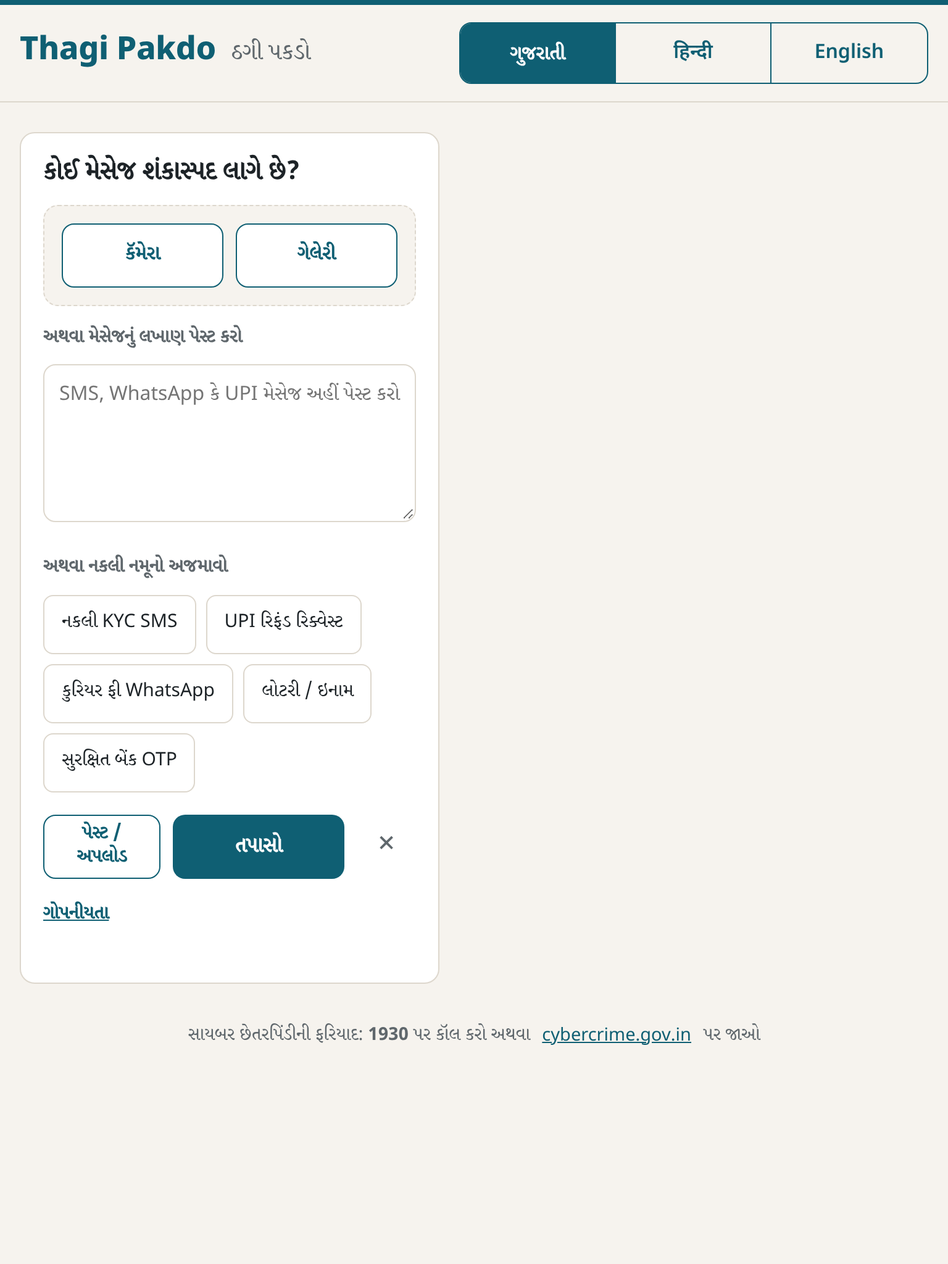
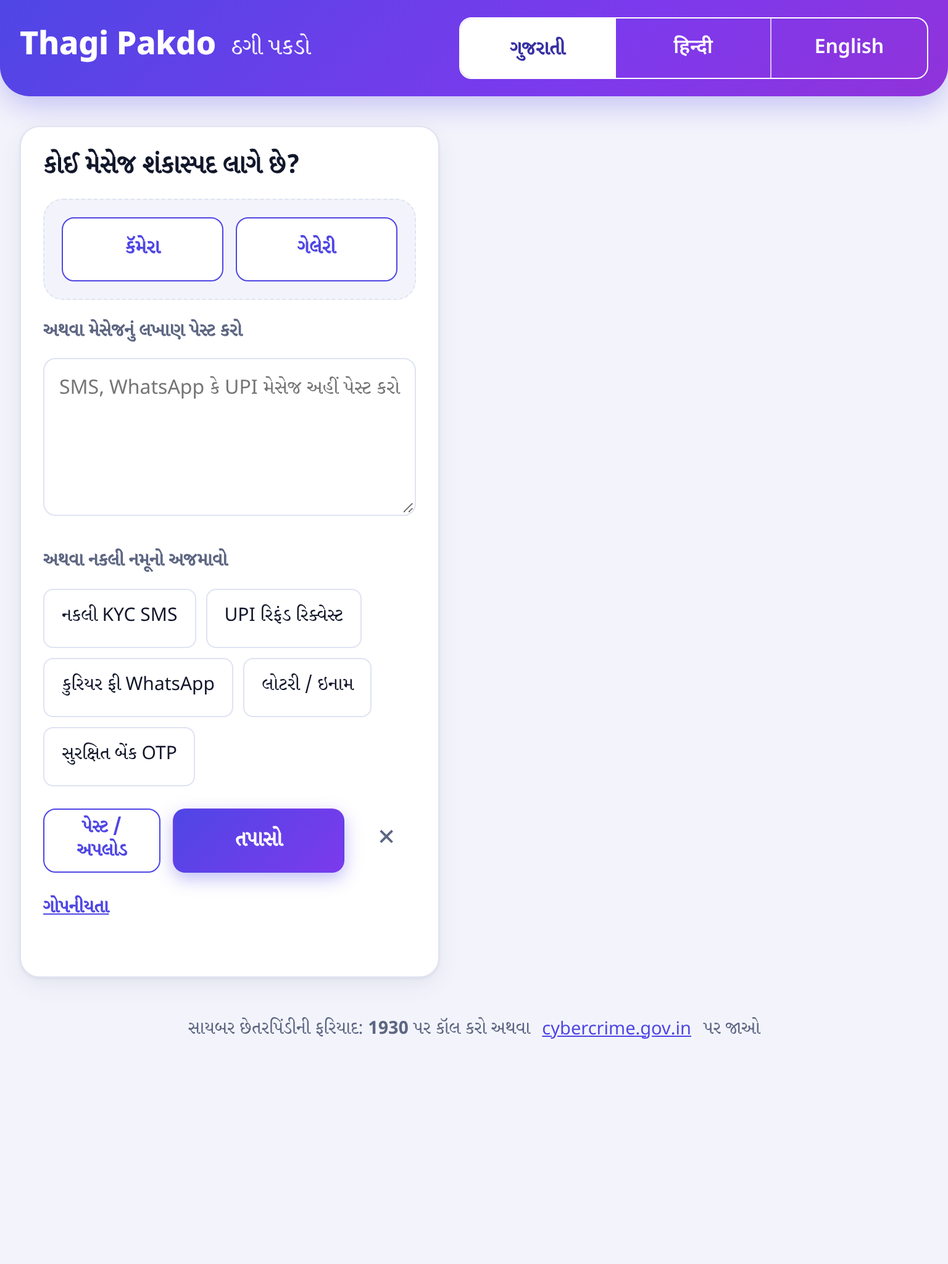
Final UI (F7c/F7d palette), regenerated screenshots, README: live demo first, optional self-run section

diff --git a/web/app.js b/web/app.js
@@ -14,27 +14,27 @@ let imageFile = null;
 let last = null;
 
 const T = {
-  en: {eNotImg:'That file is not a picture. Please choose a photo or screenshot.',eBusy:'We are busy right now. Please try again in a minute.',eOffline:'No internet connection. Please check your network and try again.',hintD:'Drop a screenshot here, paste it with Ctrl+V, or use the buttons above.',privTitle:'Privacy',hGreen:'This looks safe, but stay alert.',hAmber:'This looks suspicious. Be careful before you pay or click.',hRed:'This looks like a scam. Do not pay or click.',tag:'Got a message that feels wrong?',drop:'<strong>Drop a screenshot here</strong>, click to choose, or paste (Ctrl+V)',
+  en: {hAi:'Couldn\'t fully check this right now. Be careful and try again in a minute.',tryAgain:'Try again',eNotImg:'That file is not a picture. Please choose a photo or screenshot.',eBusy:'We are busy right now. Please try again in a minute.',eOffline:'No internet connection. Please check your network and try again.',hintD:'Drop a screenshot here, paste it with Ctrl+V, or use the buttons above.',privTitle:'Privacy',hGreen:'This looks safe, but stay alert.',hAmber:'This looks suspicious. Be careful before you pay or click.',hRed:'This looks like a scam. Do not pay or click.',tag:'Got a message that feels wrong?',drop:'<strong>Drop a screenshot here</strong>, click to choose, or paste (Ctrl+V)',
     textLbl:'Or paste the message text',ph:'Paste the SMS, WhatsApp or UPI message here',check:'Check',clear:'Clear',remove:'Remove',
     samples:'Or try a fake sample',privacy:'The free AI service may use what you send to improve its products. For this demo, please use only the fake samples. For real messages, use the offline version - ask the team.',
     red:'Scam',amber:'Suspicious',green:'Looks safe',why:'Why we think so',todo:'What to do now',found:'Found in the message',
     speak:'Read aloud',stop:'Stop',loading:'Checking...',slow:'Gemma is reading the screenshot... this can take up to a minute',slowTxt:'Gemma is reading the message... this can take up to a minute',empty:'Please add a screenshot or paste a message first.',
     err:'Could not check right now. Please try again.',ai:'AI is unavailable - this result is from rule-based checks only.',
-    src_gemini:'AI (Gemma)',src_local:'Offline AI',src_cache:'Cached',src_code:'Rules only',greenNote:'This still isn\'t a guarantee. If anything feels off, don\'t pay or click, and ask someone you trust.',camera:'Camera',gallery:'Gallery',pasteUp:'Paste / Upload',call:'Call 1930',rep:'Report at cybercrime.gov.in',hint:'Add a screenshot, or paste the text below.',draft:'Draft a complaint',dTitle:'Draft a complaint',dIntro:'All fields are optional. Skip anything you do not want to share.',fName:'Your name',fPhone:'Your phone',fAmount:'Amount lost (Rs)',fMethod:'Paid via',fWhat:'What happened',fDate:'Date & time',fTxn:'Transaction ID',more:'More details',mNone:'Select',mUpi:'UPI',mCard:'Card',mNet:'Net banking',mCash:'Cash',mOther:'Other',gen:'Generate',regen:'Generate again',gening:'Drafting...',subject:'Subject',body:'Complaint text (you can edit it)',copy:'Copy',copied:'Copied!',share:'Share',dl:'Download',openPortal:'Open cybercrime.gov.in',note:'Review before submitting. Do not include real Aadhaar, PIN or OTP.',missing:'Placeholders still to fill in:',cErr:'Could not draft the complaint. Please try again.',cTime:'Taking too long. Please try again.',aTitle:'Sign in to run live AI checks',aWhy:'Sample buttons work without signing in. Checking your own messages needs a Google sign-in and your own free Gemini key.',aOut:'Sign out',aKeyLbl:'Your Gemini API key',aShow:'Show',aHide:'Hide',aGet:'Get a free key',aRemove:'Remove key',aPriv:'Your key stays on this device and is sent only with your own checks.',eLogin:'Please sign in with Google to check your own messages. The sample buttons work without signing in.',eInvalid:'Your sign-in has expired. Please sign in with Google again.',eKey:'Please add your free Gemini API key below to check your own messages.',eKeyBad:'That Gemini API key was not accepted. Please check it or add a new one.',eRate:'Your Gemini key hit its usage limit. Please wait a minute and try again.',e413:'This picture is too large (over 4 MB). Please try a smaller screenshot.',urls:'Links',phones:'Phones',upi_ids:'UPI IDs',amounts:'Amounts',foot:'Report cyber fraud: call <b>1930</b> or visit <a href="https://cybercrime.gov.in" target="_blank" rel="noopener">cybercrime.gov.in</a>'},
-  hi: {eNotImg:'यह फ़ाइल तस्वीर नहीं है। कृपया फ़ोटो या स्क्रीनशॉट चुनें।',eBusy:'अभी बहुत भीड़ है। कृपया एक मिनट बाद फिर कोशिश करें।',eOffline:'इंटरनेट नहीं चल रहा है। कृपया नेटवर्क जाँचकर फिर कोशिश करें।',hintD:'स्क्रीनशॉट यहाँ छोड़ें, Ctrl+V से पेस्ट करें, या ऊपर के बटन दबाएँ।',privTitle:'गोपनीयता',hGreen:'यह सुरक्षित लगता है, फिर भी सतर्क रहें।',hAmber:'यह संदिग्ध लगता है। पैसे देने या लिंक खोलने से पहले सावधान रहें।',hRed:'यह स्कैम लगता है। पैसे न दें, लिंक न खोलें।',tag:'कोई मैसेज गड़बड़ लग रहा है?',drop:'<strong>स्क्रीनशॉट यहाँ छोड़ें</strong>, क्लिक करके चुनें, या पेस्ट करें (Ctrl+V)',
+    src_gemini:'AI (Gemma)',src_local:'Offline AI',src_cache:'Saved result',src_code:'Rules only',greenNote:'This still isn\'t a guarantee. If anything feels off, don\'t pay or click, and ask someone you trust.',camera:'Camera',gallery:'Gallery',pasteUp:'Paste / Upload',call:'Call 1930',rep:'Report at cybercrime.gov.in',hint:'Add a screenshot, or paste the text below.',draft:'Draft a complaint',dTitle:'Draft a complaint',dIntro:'All fields are optional. Skip anything you do not want to share.',fName:'Your name',fPhone:'Your phone',fAmount:'Amount lost (Rs)',fMethod:'Paid via',fWhat:'What happened',fDate:'Date & time',fTxn:'Transaction ID',more:'More details',mNone:'Select',mUpi:'UPI',mCard:'Card',mNet:'Net banking',mCash:'Cash',mOther:'Other',gen:'Generate',regen:'Generate again',gening:'Drafting...',subject:'Subject',body:'Complaint text (you can edit it)',copy:'Copy',copied:'Copied!',share:'Share',dl:'Download',openPortal:'Open cybercrime.gov.in',note:'Review before submitting. Do not include real Aadhaar, PIN or OTP.',missing:'Placeholders still to fill in:',cErr:'Could not draft the complaint. Please try again.',cTime:'Taking too long. Please try again.',aTitle:'Sign in to run live AI checks',aWhy:'Sample buttons work without signing in. Checking your own messages needs a Google sign-in and your own free Gemini key.',aOut:'Sign out',aKeyLbl:'Your Gemini API key',aShow:'Show',aHide:'Hide',aGet:'Get a free key',aRemove:'Remove key',aPriv:'Your key stays on this device and is sent only with your own checks.',eLogin:'Please sign in with Google to check your own messages. The sample buttons work without signing in.',eInvalid:'Your sign-in has expired. Please sign in with Google again.',eKey:'Please add your free Gemini API key below to check your own messages.',eKeyBad:'That Gemini API key was not accepted. Please check it or add a new one.',eRate:'Your Gemini key hit its usage limit. Please wait a minute and try again.',e413:'This picture is too large (over 4 MB). Please try a smaller screenshot.',urls:'Links',phones:'Phones',upi_ids:'UPI IDs',amounts:'Amounts',foot:'Report cyber fraud: call <b>1930</b> or visit <a href="https://cybercrime.gov.in" target="_blank" rel="noopener">cybercrime.gov.in</a>'},
+  hi: {hAi:'अभी इसे पूरी तरह जाँच नहीं पाए। सावधान रहें और एक मिनट बाद फिर कोशिश करें।',tryAgain:'फिर कोशिश करें',eNotImg:'यह फ़ाइल तस्वीर नहीं है। कृपया फ़ोटो या स्क्रीनशॉट चुनें।',eBusy:'अभी बहुत भीड़ है। कृपया एक मिनट बाद फिर कोशिश करें।',eOffline:'इंटरनेट नहीं चल रहा है। कृपया नेटवर्क जाँचकर फिर कोशिश करें।',hintD:'स्क्रीनशॉट यहाँ छोड़ें, Ctrl+V से पेस्ट करें, या ऊपर के बटन दबाएँ।',privTitle:'गोपनीयता',hGreen:'यह सुरक्षित लगता है, फिर भी सतर्क रहें।',hAmber:'यह संदिग्ध लगता है। पैसे देने या लिंक खोलने से पहले सावधान रहें।',hRed:'यह स्कैम लगता है। पैसे न दें, लिंक न खोलें।',tag:'कोई मैसेज गड़बड़ लग रहा है?',drop:'<strong>स्क्रीनशॉट यहाँ छोड़ें</strong>, क्लिक करके चुनें, या पेस्ट करें (Ctrl+V)',
     textLbl:'या मैसेज का टेक्स्ट पेस्ट करें',ph:'SMS, WhatsApp या UPI मैसेज यहाँ पेस्ट करें',check:'जाँचें',clear:'साफ़ करें',remove:'हटाएँ',
     samples:'या नकली नमूना आज़माएँ',privacy:'मुफ़्त AI सेवा आपके भेजे मैसेज को अपने उत्पाद सुधारने में इस्तेमाल कर सकती है। इस डेमो में सिर्फ़ नकली नमूने इस्तेमाल करें। असली मैसेज के लिए ऑफ़लाइन संस्करण इस्तेमाल करें - टीम से पूछें।',
     red:'स्कैम',amber:'संदिग्ध',green:'सुरक्षित लगता है',why:'ऐसा क्यों लगा',todo:'अब क्या करें',found:'मैसेज में मिला',
     speak:'सुनें',stop:'रोकें',loading:'जाँच हो रही है...',slow:'Gemma स्क्रीनशॉट पढ़ रहा है... इसमें एक मिनट तक लग सकता है',slowTxt:'Gemma मैसेज पढ़ रहा है... इसमें एक मिनट तक लग सकता है',empty:'कृपया पहले स्क्रीनशॉट जोड़ें या मैसेज पेस्ट करें।',
     err:'अभी जाँच नहीं हो सकी। कृपया दोबारा कोशिश करें।',ai:'AI उपलब्ध नहीं है - यह नतीजा सिर्फ़ नियम-आधारित जाँच से है।',
-    src_gemini:'AI (Gemma)',src_local:'ऑफ़लाइन AI',src_cache:'सेव किया गया',src_code:'सिर्फ़ नियम',greenNote:'यह गारंटी नहीं है। कुछ भी गड़बड़ लगे तो पैसे न दें, लिंक न खोलें, और किसी भरोसेमंद से पूछें।',camera:'कैमरा',gallery:'गैलरी',pasteUp:'पेस्ट / अपलोड',call:'1930 पर कॉल करें',rep:'cybercrime.gov.in पर शिकायत करें',hint:'स्क्रीनशॉट जोड़ें, या नीचे मैसेज पेस्ट करें।',draft:'शिकायत का मसौदा बनाएँ',dTitle:'शिकायत का मसौदा',dIntro:'सभी जानकारी वैकल्पिक है। जो साझा नहीं करना चाहते उसे छोड़ दें।',fName:'आपका नाम',fPhone:'आपका फ़ोन',fAmount:'गँवाई रकम (रु)',fMethod:'भुगतान का तरीका',fWhat:'क्या हुआ',fDate:'तारीख़ और समय',fTxn:'ट्रांज़ैक्शन आईडी',more:'और जानकारी',mNone:'चुनें',mUpi:'UPI',mCard:'कार्ड',mNet:'नेट बैंकिंग',mCash:'नकद',mOther:'अन्य',gen:'बनाएँ',regen:'फिर से बनाएँ',gening:'बन रहा है...',subject:'विषय',body:'शिकायत का पाठ (आप बदल सकते हैं)',copy:'कॉपी',copied:'कॉपी हो गया!',share:'शेयर',dl:'डाउनलोड',openPortal:'cybercrime.gov.in खोलें',note:'जमा करने से पहले जाँच लें। असली आधार, PIN या OTP न लिखें।',missing:'भरने के लिए बाकी जगहें:',cErr:'शिकायत का मसौदा नहीं बन सका। कृपया दोबारा कोशिश करें।',cTime:'बहुत देर लग रही है। कृपया दोबारा कोशिश करें।',aTitle:'लाइव AI जाँच के लिए साइन इन करें',aWhy:'सैंपल बटन बिना साइन इन के चलते हैं। अपने मैसेज जाँचने के लिए Google साइन-इन और आपकी अपनी मुफ़्त Gemini कुंजी चाहिए।',aOut:'साइन आउट',aKeyLbl:'आपकी Gemini API कुंजी',aShow:'दिखाएँ',aHide:'छिपाएँ',aGet:'मुफ़्त कुंजी पाएँ',aRemove:'कुंजी हटाएँ',aPriv:'आपकी कुंजी इसी डिवाइस पर रहती है और सिर्फ़ आपकी अपनी जाँच के साथ भेजी जाती है।',eLogin:'अपने मैसेज जाँचने के लिए कृपया Google से साइन इन करें। सैंपल बटन बिना साइन इन के चलते हैं।',eInvalid:'आपका साइन-इन समाप्त हो गया है। कृपया Google से दोबारा साइन इन करें।',eKey:'अपने मैसेज जाँचने के लिए कृपया नीचे अपनी मुफ़्त Gemini API कुंजी जोड़ें।',eKeyBad:'यह Gemini API कुंजी स्वीकार नहीं हुई। कृपया जाँचें या नई कुंजी जोड़ें।',eRate:'आपकी Gemini कुंजी की सीमा पूरी हो गई है। कृपया एक मिनट रुककर दोबारा कोशिश करें।',e413:'यह तस्वीर बहुत बड़ी है (4 MB से ज़्यादा)। कृपया छोटा स्क्रीनशॉट आज़माएँ।',urls:'लिंक',phones:'फ़ोन',upi_ids:'UPI आईडी',amounts:'रकम',foot:'साइबर ठगी की शिकायत: <b>1930</b> पर कॉल करें या <a href="https://cybercrime.gov.in" target="_blank" rel="noopener">cybercrime.gov.in</a> पर जाएँ'},
-  gu: {eNotImg:'આ ફાઇલ ફોટો નથી. કૃપા કરીને ફોટો કે સ્ક્રીનશૉટ પસંદ કરો.',eBusy:'અત્યારે ઘણી ભીડ છે. કૃપા કરીને એક મિનિટ પછી ફરી પ્રયત્ન કરો.',eOffline:'ઇન્ટરનેટ ચાલતું નથી. કૃપા કરીને નેટવર્ક તપાસીને ફરી પ્રયત્ન કરો.',hintD:'સ્ક્રીનશૉટ અહીં મૂકો, Ctrl+V થી પેસ્ટ કરો, અથવા ઉપરના બટન દબાવો.',privTitle:'ગોપનીયતા',hGreen:'આ સુરક્ષિત લાગે છે, તોપણ સાવચેત રહેજો.',hAmber:'આ શંકાસ્પદ લાગે છે. પૈસા ચૂકવતા કે લિંક ખોલતા પહેલાં સાવચેત રહો.',hRed:'આ સ્કેમ લાગે છે. પૈસા ન ચૂકવો, લિંક ન ખોલો.',tag:'કોઈ મેસેજ શંકાસ્પદ લાગે છે?',drop:'<strong>સ્ક્રીનશૉટ અહીં મૂકો</strong>, ક્લિક કરીને પસંદ કરો, અથવા પેસ્ટ કરો (Ctrl+V)',
+    src_gemini:'AI (Gemma)',src_local:'ऑफ़लाइन AI',src_cache:'सेव किया गया परिणाम',src_code:'सिर्फ़ नियम',greenNote:'यह गारंटी नहीं है। कुछ भी गड़बड़ लगे तो पैसे न दें, लिंक न खोलें, और किसी भरोसेमंद से पूछें।',camera:'कैमरा',gallery:'गैलरी',pasteUp:'पेस्ट / अपलोड',call:'1930 पर कॉल करें',rep:'cybercrime.gov.in पर शिकायत करें',hint:'स्क्रीनशॉट जोड़ें, या नीचे मैसेज पेस्ट करें।',draft:'शिकायत का मसौदा बनाएँ',dTitle:'शिकायत का मसौदा',dIntro:'सभी जानकारी वैकल्पिक है। जो साझा नहीं करना चाहते उसे छोड़ दें।',fName:'आपका नाम',fPhone:'आपका फ़ोन',fAmount:'गँवाई रकम (रु)',fMethod:'भुगतान का तरीका',fWhat:'क्या हुआ',fDate:'तारीख़ और समय',fTxn:'ट्रांज़ैक्शन आईडी',more:'और जानकारी',mNone:'चुनें',mUpi:'UPI',mCard:'कार्ड',mNet:'नेट बैंकिंग',mCash:'नकद',mOther:'अन्य',gen:'बनाएँ',regen:'फिर से बनाएँ',gening:'बन रहा है...',subject:'विषय',body:'शिकायत का पाठ (आप बदल सकते हैं)',copy:'कॉपी',copied:'कॉपी हो गया!',share:'शेयर',dl:'डाउनलोड',openPortal:'cybercrime.gov.in खोलें',note:'जमा करने से पहले जाँच लें। असली आधार, PIN या OTP न लिखें।',missing:'भरने के लिए बाकी जगहें:',cErr:'शिकायत का मसौदा नहीं बन सका। कृपया दोबारा कोशिश करें।',cTime:'बहुत देर लग रही है। कृपया दोबारा कोशिश करें।',aTitle:'लाइव AI जाँच के लिए साइन इन करें',aWhy:'सैंपल बटन बिना साइन इन के चलते हैं। अपने मैसेज जाँचने के लिए Google साइन-इन और आपकी अपनी मुफ़्त Gemini कुंजी चाहिए।',aOut:'साइन आउट',aKeyLbl:'आपकी Gemini API कुंजी',aShow:'दिखाएँ',aHide:'छिपाएँ',aGet:'मुफ़्त कुंजी पाएँ',aRemove:'कुंजी हटाएँ',aPriv:'आपकी कुंजी इसी डिवाइस पर रहती है और सिर्फ़ आपकी अपनी जाँच के साथ भेजी जाती है।',eLogin:'अपने मैसेज जाँचने के लिए कृपया Google से साइन इन करें। सैंपल बटन बिना साइन इन के चलते हैं।',eInvalid:'आपका साइन-इन समाप्त हो गया है। कृपया Google से दोबारा साइन इन करें।',eKey:'अपने मैसेज जाँचने के लिए कृपया नीचे अपनी मुफ़्त Gemini API कुंजी जोड़ें।',eKeyBad:'यह Gemini API कुंजी स्वीकार नहीं हुई। कृपया जाँचें या नई कुंजी जोड़ें।',eRate:'आपकी Gemini कुंजी की सीमा पूरी हो गई है। कृपया एक मिनट रुककर दोबारा कोशिश करें।',e413:'यह तस्वीर बहुत बड़ी है (4 MB से ज़्यादा)। कृपया छोटा स्क्रीनशॉट आज़माएँ।',urls:'लिंक',phones:'फ़ोन',upi_ids:'UPI आईडी',amounts:'रकम',foot:'साइबर ठगी की शिकायत: <b>1930</b> पर कॉल करें या <a href="https://cybercrime.gov.in" target="_blank" rel="noopener">cybercrime.gov.in</a> पर जाएँ'},
+  gu: {hAi:'અત્યારે આને પૂરેપૂરું તપાસી શક્યા નથી. સાવચેત રહો અને એક મિનિટ પછી ફરી પ્રયત્ન કરો.',tryAgain:'ફરી પ્રયત્ન કરો',eNotImg:'આ ફાઇલ ફોટો નથી. કૃપા કરીને ફોટો કે સ્ક્રીનશૉટ પસંદ કરો.',eBusy:'અત્યારે ઘણી ભીડ છે. કૃપા કરીને એક મિનિટ પછી ફરી પ્રયત્ન કરો.',eOffline:'ઇન્ટરનેટ ચાલતું નથી. કૃપા કરીને નેટવર્ક તપાસીને ફરી પ્રયત્ન કરો.',hintD:'સ્ક્રીનશૉટ અહીં મૂકો, Ctrl+V થી પેસ્ટ કરો, અથવા ઉપરના બટન દબાવો.',privTitle:'ગોપનીયતા',hGreen:'આ સુરક્ષિત લાગે છે, તોપણ સાવચેત રહેજો.',hAmber:'આ શંકાસ્પદ લાગે છે. પૈસા ચૂકવતા કે લિંક ખોલતા પહેલાં સાવચેત રહો.',hRed:'આ સ્કેમ લાગે છે. પૈસા ન ચૂકવો, લિંક ન ખોલો.',tag:'કોઈ મેસેજ શંકાસ્પદ લાગે છે?',drop:'<strong>સ્ક્રીનશૉટ અહીં મૂકો</strong>, ક્લિક કરીને પસંદ કરો, અથવા પેસ્ટ કરો (Ctrl+V)',
     textLbl:'અથવા મેસેજનું લખાણ પેસ્ટ કરો',ph:'SMS, WhatsApp કે UPI મેસેજ અહીં પેસ્ટ કરો',check:'તપાસો',clear:'સાફ કરો',remove:'કાઢી નાખો',
     samples:'અથવા નકલી નમૂનો અજમાવો',privacy:'મફત AI સેવા તમે મોકલેલા મેસેજનો ઉપયોગ પોતાના ઉત્પાદનો સુધારવા કરી શકે છે. આ ડેમોમાં ફક્ત નકલી નમૂના વાપરો. અસલી મેસેજ માટે ઑફલાઇન આવૃત્તિ વાપરો - ટીમને પૂછો.',
     red:'સ્કેમ',amber:'શંકાસ્પદ',green:'સુરક્ષિત લાગે છે',why:'આવું કેમ લાગ્યું',todo:'હવે શું કરવું',found:'મેસેજમાં મળ્યું',
     speak:'સાંભળો',stop:'બંધ કરો',loading:'તપાસ ચાલુ છે...',slow:'Gemma સ્ક્રીનશૉટ વાંચી રહ્યું છે... એક મિનિટ સુધી લાગી શકે',slowTxt:'Gemma મેસેજ વાંચી રહ્યું છે... એક મિનિટ સુધી લાગી શકે',empty:'કૃપા કરીને પહેલાં સ્ક્રીનશૉટ ઉમેરો અથવા મેસેજ પેસ્ટ કરો.',
     err:'હમણાં તપાસ થઈ શકી નહીં. ફરી પ્રયત્ન કરો.',ai:'AI ઉપલબ્ધ નથી - આ પરિણામ ફક્ત નિયમ-આધારિત તપાસનું છે.',
-    src_gemini:'AI (Gemma)',src_local:'ઑફલાઇન AI',src_cache:'સેવ કરેલ',src_code:'ફક્ત નિયમો',greenNote:'આ ગેરંટી નથી. કંઈ પણ શંકાસ્પદ લાગે તો પૈસા ન ચૂકવો, લિંક ન ખોલો, અને કોઈ વિશ્વાસુને પૂછો.',camera:'કૅમેરા',gallery:'ગેલેરી',pasteUp:'પેસ્ટ / અપલોડ',call:'1930 પર કૉલ કરો',rep:'cybercrime.gov.in પર ફરિયાદ કરો',hint:'સ્ક્રીનશૉટ ઉમેરો, અથવા નીચે મેસેજ પેસ્ટ કરો.',draft:'ફરિયાદનો ડ્રાફ્ટ બનાવો',dTitle:'ફરિયાદનો ડ્રાફ્ટ',dIntro:'બધી માહિતી વૈકલ્પિક છે. જે શેર ન કરવી હોય તે છોડી દો.',fName:'તમારું નામ',fPhone:'તમારો ફોન',fAmount:'ગુમાવેલી રકમ (રૂ)',fMethod:'ચુકવણીની રીત',fWhat:'શું થયું',fDate:'તારીખ અને સમય',fTxn:'ટ્રાન્ઝેક્શન આઈડી',more:'વધુ માહિતી',mNone:'પસંદ કરો',mUpi:'UPI',mCard:'કાર્ડ',mNet:'નેટ બેંકિંગ',mCash:'રોકડ',mOther:'અન્ય',gen:'બનાવો',regen:'ફરી બનાવો',gening:'બની રહ્યું છે...',subject:'વિષય',body:'ફરિયાદનો લખાણ (તમે ફેરફાર કરી શકો)',copy:'કૉપી',copied:'કૉપી થયું!',share:'શેર',dl:'ડાઉનલોડ',openPortal:'cybercrime.gov.in ખોલો',note:'સબમિટ કરતા પહેલાં તપાસી લો. અસલી આધાર, PIN કે OTP ન લખો.',missing:'ભરવાની બાકી જગ્યાઓ:',cErr:'ફરિયાદનો ડ્રાફ્ટ બની શક્યો નહીં. ફરી પ્રયત્ન કરો.',cTime:'ખૂબ વાર લાગે છે. ફરી પ્રયત્ન કરો.',aTitle:'લાઇવ AI તપાસ માટે સાઇન ઇન કરો',aWhy:'સેમ્પલ બટન સાઇન ઇન વગર ચાલે છે. તમારા પોતાના મેસેજ તપાસવા Google સાઇન-ઇન અને તમારી પોતાની મફત Gemini કી જોઈએ.',aOut:'સાઇન આઉટ',aKeyLbl:'તમારી Gemini API કી',aShow:'બતાવો',aHide:'છુપાવો',aGet:'મફત કી મેળવો',aRemove:'કી કાઢી નાખો',aPriv:'તમારી કી આ ડિવાઇસ પર જ રહે છે અને ફક્ત તમારી પોતાની તપાસ સાથે મોકલાય છે.',eLogin:'તમારા મેસેજ તપાસવા કૃપા કરીને Google થી સાઇન ઇન કરો. સેમ્પલ બટન સાઇન ઇન વગર ચાલે છે.',eInvalid:'તમારું સાઇન-ઇન પૂરું થઈ ગયું છે. કૃપા કરીને Google થી ફરી સાઇન ઇન કરો.',eKey:'તમારા મેસેજ તપાસવા કૃપા કરીને નીચે તમારી મફત Gemini API કી ઉમેરો.',eKeyBad:'આ Gemini API કી સ્વીકારાઈ નથી. કૃપા કરીને તપાસો અથવા નવી કી ઉમેરો.',eRate:'તમારી Gemini કીની મર્યાદા પૂરી થઈ ગઈ છે. એક મિનિટ રાહ જોઈને ફરી પ્રયત્ન કરો.',e413:'આ ફોટો બહુ મોટો છે (4 MB થી વધુ). કૃપા કરીને નાનો સ્ક્રીનશૉટ અજમાવો.',urls:'લિંક',phones:'ફોન',upi_ids:'UPI આઈડી',amounts:'રકમ',foot:'સાયબર છેતરપિંડીની ફરિયાદ: <b>1930</b> પર કૉલ કરો અથવા <a href="https://cybercrime.gov.in" target="_blank" rel="noopener">cybercrime.gov.in</a> પર જાઓ'}
+    src_gemini:'AI (Gemma)',src_local:'ઑફલાઇન AI',src_cache:'સેવ કરેલ પરિણામ',src_code:'ફક્ત નિયમો',greenNote:'આ ગેરંટી નથી. કંઈ પણ શંકાસ્પદ લાગે તો પૈસા ન ચૂકવો, લિંક ન ખોલો, અને કોઈ વિશ્વાસુને પૂછો.',camera:'કૅમેરા',gallery:'ગેલેરી',pasteUp:'પેસ્ટ / અપલોડ',call:'1930 પર કૉલ કરો',rep:'cybercrime.gov.in પર ફરિયાદ કરો',hint:'સ્ક્રીનશૉટ ઉમેરો, અથવા નીચે મેસેજ પેસ્ટ કરો.',draft:'ફરિયાદનો ડ્રાફ્ટ બનાવો',dTitle:'ફરિયાદનો ડ્રાફ્ટ',dIntro:'બધી માહિતી વૈકલ્પિક છે. જે શેર ન કરવી હોય તે છોડી દો.',fName:'તમારું નામ',fPhone:'તમારો ફોન',fAmount:'ગુમાવેલી રકમ (રૂ)',fMethod:'ચુકવણીની રીત',fWhat:'શું થયું',fDate:'તારીખ અને સમય',fTxn:'ટ્રાન્ઝેક્શન આઈડી',more:'વધુ માહિતી',mNone:'પસંદ કરો',mUpi:'UPI',mCard:'કાર્ડ',mNet:'નેટ બેંકિંગ',mCash:'રોકડ',mOther:'અન્ય',gen:'બનાવો',regen:'ફરી બનાવો',gening:'બની રહ્યું છે...',subject:'વિષય',body:'ફરિયાદનો લખાણ (તમે ફેરફાર કરી શકો)',copy:'કૉપી',copied:'કૉપી થયું!',share:'શેર',dl:'ડાઉનલોડ',openPortal:'cybercrime.gov.in ખોલો',note:'સબમિટ કરતા પહેલાં તપાસી લો. અસલી આધાર, PIN કે OTP ન લખો.',missing:'ભરવાની બાકી જગ્યાઓ:',cErr:'ફરિયાદનો ડ્રાફ્ટ બની શક્યો નહીં. ફરી પ્રયત્ન કરો.',cTime:'ખૂબ વાર લાગે છે. ફરી પ્રયત્ન કરો.',aTitle:'લાઇવ AI તપાસ માટે સાઇન ઇન કરો',aWhy:'સેમ્પલ બટન સાઇન ઇન વગર ચાલે છે. તમારા પોતાના મેસેજ તપાસવા Google સાઇન-ઇન અને તમારી પોતાની મફત Gemini કી જોઈએ.',aOut:'સાઇન આઉટ',aKeyLbl:'તમારી Gemini API કી',aShow:'બતાવો',aHide:'છુપાવો',aGet:'મફત કી મેળવો',aRemove:'કી કાઢી નાખો',aPriv:'તમારી કી આ ડિવાઇસ પર જ રહે છે અને ફક્ત તમારી પોતાની તપાસ સાથે મોકલાય છે.',eLogin:'તમારા મેસેજ તપાસવા કૃપા કરીને Google થી સાઇન ઇન કરો. સેમ્પલ બટન સાઇન ઇન વગર ચાલે છે.',eInvalid:'તમારું સાઇન-ઇન પૂરું થઈ ગયું છે. કૃપા કરીને Google થી ફરી સાઇન ઇન કરો.',eKey:'તમારા મેસેજ તપાસવા કૃપા કરીને નીચે તમારી મફત Gemini API કી ઉમેરો.',eKeyBad:'આ Gemini API કી સ્વીકારાઈ નથી. કૃપા કરીને તપાસો અથવા નવી કી ઉમેરો.',eRate:'તમારી Gemini કીની મર્યાદા પૂરી થઈ ગઈ છે. એક મિનિટ રાહ જોઈને ફરી પ્રયત્ન કરો.',e413:'આ ફોટો બહુ મોટો છે (4 MB થી વધુ). કૃપા કરીને નાનો સ્ક્રીનશૉટ અજમાવો.',urls:'લિંક',phones:'ફોન',upi_ids:'UPI આઈડી',amounts:'રકમ',foot:'સાયબર છેતરપિંડીની ફરિયાદ: <b>1930</b> પર કૉલ કરો અથવા <a href="https://cybercrime.gov.in" target="_blank" rel="noopener">cybercrime.gov.in</a> પર જાઓ'}
 };
 const SPEECH = {en:'en-IN',hi:'hi-IN',gu:'gu-IN'};
 
@@ -216,6 +216,12 @@ function render(d, quiet){
   $('vkick').textContent = t[v]; $('vlabel').textContent = t['h'+v[0].toUpperCase()+v.slice(1)]; $('vtype').textContent = d.scam_type || '';
   li($('reasons'), d.reasons); li($('advice'), d.advice);
   const aiDown = d.ai_unavailable === true || d.ai_available === false;
+  if(aiDown && v === 'amber') $('vlabel').textContent = t.hAi;
+  let rb = $('retryBtn');
+  if(!rb){ rb = document.createElement('button'); rb.id = 'retryBtn'; rb.type = 'button'; rb.className = 'btn';
+    rb.style.cssText = 'margin-top:14px;background:#fff;color:#2a1a00;border-color:#fff;min-height:48px;width:100%';
+    rb.addEventListener('click', () => { if(!$('check').disabled) check(); }); $('vtype').insertAdjacentElement('afterend', rb); }
+  rb.textContent = t.tryAgain; rb.hidden = !aiDown;
   const sb=$('srcBadge'); const sk={gemini:'src_gemini',local:'src_local',cache:'src_cache',code:'src_code'}[d.source]; sb.hidden=!sk; if(sk) sb.textContent=t[sk];
   $('draftBtn').hidden = v==='green';
   $('greenNote').hidden = v!=='green'; $('greenNote').textContent = t.greenNote;

diff --git a/web/style.css b/web/style.css
@@ -1,7 +1,7 @@
-:root{--bg:#f6f3ee;--fg:#1d2327;--muted:#5f676c;--card:#fff;--line:#ddd7cd;--soft:#efeae2;--accent:#0f5f73;--accent-ink:#fff;--accent-soft:#e1eef1;
---vred:#b3261e;--vamber:#f0a500;--vgreen:#1b7a3a;--r:12px}
-@media(prefers-color-scheme:dark){:root{--bg:#17191b;--fg:#ece8e1;--muted:#a3a6a8;--card:#202325;--line:#33383b;--soft:#2a2e30;--accent:#6cc0d4;--accent-ink:#06232b;--accent-soft:#1f3238;
---vred:#92201a;--vamber:#e0a21a;--vgreen:#1e6b3b}}
+:root{--bg:#f3f4fb;--fg:#12172b;--muted:#5d6682;--card:#fff;--line:#dfe3f2;--soft:#eef0fb;--accent:#4f46e5;--accent-ink:#fff;--accent-soft:#e8e9fc;
+--grad:linear-gradient(135deg,#4f46e5 0%,#7c3aed 100%);--shadow:0 1px 2px rgba(20,30,70,.06),0 6px 18px rgba(20,30,70,.07);
+--vred:#e11d48;--vamber:#f59e0b;--vgreen:#16a34a;--r:16px}
+@media(prefers-color-scheme:dark){:root{--bg:#0b1020;--fg:#eef1ff;--muted:#9fa9cc;--card:#151b33;--line:#2a3358;--soft:#1d2545;--accent:#a5b4fc;--accent-ink:#0b1020;--accent-soft:#232c58;--shadow:0 1px 2px rgba(0,0,0,.4),0 6px 18px rgba(0,0,0,.35)}}
 *{box-sizing:border-box;-webkit-tap-highlight-color:transparent}
 html{-webkit-text-size-adjust:100%}
 body{margin:0;overflow-x:hidden;font:16px/1.6 "Noto Sans Gujarati","Noto Sans Devanagari",system-ui,-apple-system,"Segoe UI",Roboto,"Noto Sans","Nirmala UI",sans-serif;background:var(--bg);color:var(--fg);
@@ -173,4 +173,35 @@ body.sheet-open{overflow:hidden}
  main{padding-top:12px}.card{padding:14px}
  .ctitle{display:none}.drop{padding:10px;margin-bottom:10px}textarea{min-height:76px}
  .chips-wrap{margin-top:10px}
+}
+
+/* F7c: v1 palette on the F7b structure */
+.top{background:linear-gradient(135deg,#4f46e5 0%,#7c3aed 62%,#9b2fd0 120%);border-top:0;border-bottom:0;border-radius:0 0 24px 24px;box-shadow:0 8px 24px rgba(79,70,229,.28);color:#fff}
+h1{color:#fff}.sub{color:#f5f3ff}
+.seg{border-color:#fff}
+.lang{color:#fff;border-right-color:rgba(255,255,255,.7)}
+.lang.active{background:#fff;color:#3730a3}
+.top :focus-visible{outline-color:#fff}
+.card{box-shadow:var(--shadow)}
+.sample{background:var(--card)}
+.tile{background:var(--card)}
+.pri{background:var(--grad);color:#fff;border-color:transparent;box-shadow:0 5px 14px rgba(79,70,229,.35)}
+.call{background:linear-gradient(135deg,#be123c 0%,#e11d48 100%);color:#fff;border-color:transparent;box-shadow:0 5px 14px rgba(225,29,72,.32)}
+.speak.on{background:var(--grad);color:#fff;border-color:transparent}
+.draft{background:linear-gradient(135deg,#f59e0b,#f97316);color:#2a1300;border-color:transparent;box-shadow:0 5px 14px rgba(249,115,22,.3)}
+.steps li::before{background:var(--grad);border-color:transparent;color:#fff}
+.verdict{box-shadow:var(--shadow)}
+.verdict.red{background:linear-gradient(160deg,#be123c 0%,#e11d48 100%);color:#fff}
+.verdict.amber{background:linear-gradient(160deg,#d97706 0%,#f59e0b 62%,#fbbf24 100%);color:#2a1a00}
+.verdict.green{background:linear-gradient(160deg,#ecfdf3,#d3f5e0);color:#0b5d2e;border:2px solid #86e0a8}
+.note,.greennote,.warn{border-left-color:var(--accent)}
+.greennote{border-left-color:#16a34a}.warn{border-left-color:#f59e0b}
+.pri:hover,.call:hover,.draft:hover{filter:brightness(1.08)}
+@media(max-width:767px){.top{border-radius:0 0 20px 20px}}
+@media(prefers-color-scheme:dark){
+ .top{background:linear-gradient(135deg,#3b34b8 0%,#5b2bb8 62%,#7a249f 120%);box-shadow:0 8px 24px rgba(0,0,0,.45)}
+ .verdict.red{background:linear-gradient(160deg,#9f1239 0%,#be123c 100%)}
+ .verdict.green{background:linear-gradient(160deg,#14532d,#166534);color:#ecfdf5;border-color:#22c55e}
+ .call{background:linear-gradient(135deg,#9f1239 0%,#be123c 100%)}
+ .lang.active{color:#312e81}
 }

diff --git a/web/index.html b/web/index.html
@@ -3,8 +3,8 @@
 <head>
 <meta charset="utf-8">
 <meta name="viewport" content="width=device-width, initial-scale=1, viewport-fit=cover">
-<meta name="theme-color" content="#f6f3ee" media="(prefers-color-scheme: light)">
-<meta name="theme-color" content="#17191b" media="(prefers-color-scheme: dark)">
+<meta name="theme-color" content="#4f46e5" media="(prefers-color-scheme: light)">
+<meta name="theme-color" content="#3b34b8" media="(prefers-color-scheme: dark)">
 <meta name="color-scheme" content="light dark">
 <meta name="mobile-web-app-capable" content="yes">
 <meta name="apple-mobile-web-app-capable" content="yes">

diff --git a/README.md b/README.md
@@ -5,32 +5,24 @@
 
 **Paste a suspicious SMS, WhatsApp or UPI message, or upload a screenshot, and get a plain verdict (red / amber / green), the reasons, what to do next, and a ready-to-file cybercrime complaint, in Gujarati, Hindi or English.** Built for Hack Day Surat with Gemma 4.
 
-**Live demo: https://thagi-pakdo.vercel.app** (shared free-tier Gemini key; see [Limits](#honest-limits))
+## Live demo: https://thagi-pakdo.vercel.app
 
-<p align="center"><img src="docs/screens/v2/f7b_scam_light_390.png" alt="Red verdict: This looks like a scam. Do not pay or click." width="300"></p>
-
-| Gujarati result | Complaint draft | Dark mode |
-|---|---|---|
-| <img src="docs/screens/v2/scam_gu_390.png" alt="Scam verdict in Gujarati" width="230"> | <img src="docs/screens/v2/complaint_390.png" alt="Complaint draft form" width="230"> | <img src="docs/screens/v2/f7b_scam_dark_390.png" alt="Scam verdict in dark mode" width="230"> |
+Open it on a phone or laptop; there is nothing to install. It runs on a shared free-tier Gemini key, so see [Limits](#honest-limits) first.
 
 ## Try it in 60 seconds
 
-1. Open the live demo (or run it locally, below).
+1. Open the live demo.
 2. Tap **Fake KYC SMS**: you get a red card, three reasons and numbered steps. The five sample buttons are fake messages and answer instantly from a committed cache.
 3. Paste your own made-up scam text (for example "Your bank account will be blocked today, update KYC at http://bit.ly/x") and tap **Check**. This is a live Gemma call (about 2 to 5 s).
 4. Tap **ગુજરાતી** or **हिन्दी** to see the same answer in that language, then **Read aloud**.
 5. Tap **Draft a complaint** to get a formal complaint for [cybercrime.gov.in](https://cybercrime.gov.in). Anything you don't fill in stays a visible `[placeholder]`; nothing is invented.
 6. Tap **Safe bank OTP**: a genuine OTP alert with no link and no ask is green ("This looks safe, but stay alert.").
 
-## Quick start
+<p align="center"><img src="docs/screens/v2/f7b_scam_light_390.png" alt="Red verdict: This looks like a scam. Do not pay or click." width="300"></p>
 
-```bash
-git clone https://github.com/Neelk1812/thagi-pakdo && cd thagi-pakdo
-pip install -r requirements.txt
-cp .env.example .env   # add GEMINI_API_KEY, then: uvicorn app:app
-```
-
-Open http://127.0.0.1:8000. Python 3.13 is what we developed on; CI also runs 3.12. Without a key the sample buttons still work from cache and other inputs fall back to rules-only. To try it from a phone on the same Wi-Fi, use `uvicorn app:app --host 0.0.0.0` and open `http://<computer-ip>:8000` (plain HTTP on your LAN; not tested on a real phone).
+| Gujarati result | Complaint draft | Dark mode |
+|---|---|---|
+| <img src="docs/screens/v2/scam_gu_390.png" alt="Scam verdict in Gujarati" width="230"> | <img src="docs/screens/v2/complaint_390.png" alt="Complaint draft form" width="230"> | <img src="docs/screens/v2/f7b_scam_dark_390.png" alt="Scam verdict in dark mode" width="230"> |
 
 ## How Gemma is used
 
@@ -72,9 +64,20 @@ flowchart LR
 
 ## Tests and CI
 
-`pytest` runs 196 tests with a mocked model, a temporary cache and no API key (verified with the key unset). GitHub Actions runs them on push for Python 3.12 and 3.13 (`.github/workflows/test.yml`).
+`pytest` runs 196 tests with a mocked model, a temporary cache and no API key (verified with the key unset). GitHub Actions runs them on every push (`.github/workflows/test.yml`).
 
 ## Reference
+
+<details><summary>Run it yourself (optional)</summary>
+
+```bash
+git clone https://github.com/Neelk1812/thagi-pakdo && cd thagi-pakdo
+pip install -r requirements.txt
+cp .env.example .env   # add GEMINI_API_KEY, then: uvicorn app:app
+```
+
+Open http://127.0.0.1:8000. Without a key the sample buttons still work from cache and other inputs fall back to rules-only.
+</details>
 
 <details><summary>Configuration (environment variables / <code>.env</code>)</summary>
 
